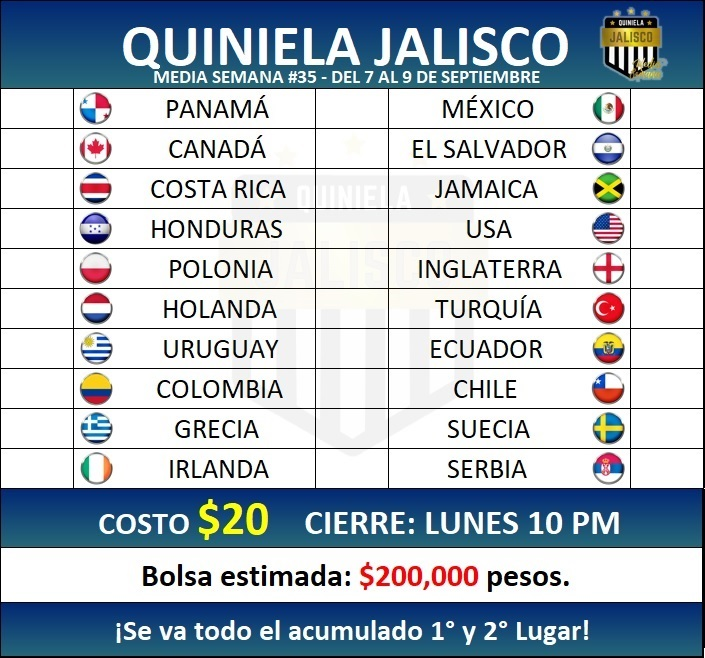
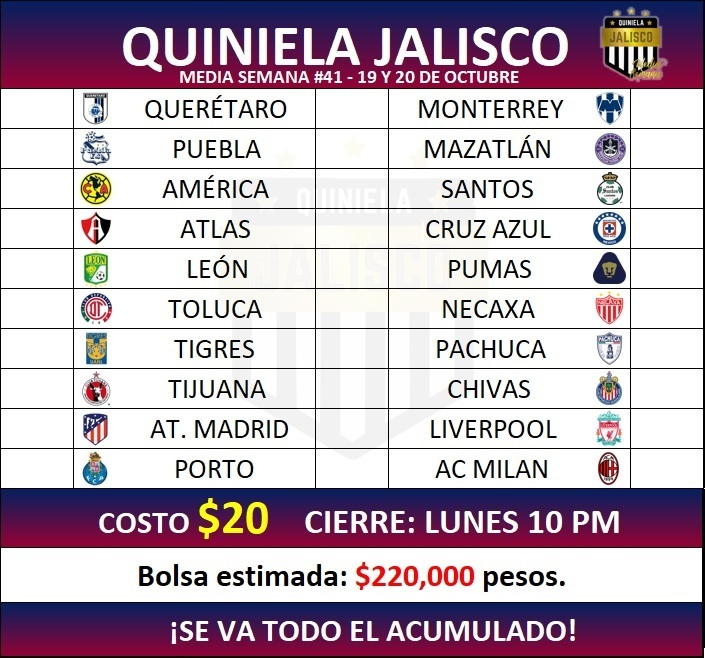
Media Semana #41

diff --git a/media.html b/media.html
@@ -2,22 +2,23 @@
 <html lang="en" translate="no">
 <head>
     <meta charset="UTF-8">
+    <meta name="google" content="notranslate">
     <meta name="viewport" content="width=device-width, initial-scale=1.0, user-scalable=no">
-    <title>Quiniela Jalisco - Media Semana</title>
+    <meta name="description" content="¡Registra aquí tus quinielas! - Quiniela Liga MX">
+    <meta name="keywords" content="Quiniela, Liga MX, Apostar, Pronósticos">
+    <title>Quiniela Jalisco</title>
     <link href="https://fonts.googleapis.com/css2?family=Roboto&display=swap" rel="stylesheet">
-    <link rel="stylesheet" href="MediaSemana/stylesm.css">
+    <link rel="stylesheet" href="10/styles10media.css">
     <link rel="icon" href="MediaSemana/iconm.jpg">
     <link rel="apple-touch-icon" href="MediaSemana/iconm.jpg">
     <link rel="shortcut icon" href="MediaSemana/iconm.jpg" type="image/x-icon">
     <script type="module" src="https://unpkg.com/ionicons@5.1.2/dist/ionicons/ionicons.esm.js"></script>
     <script nomodule="" src="https://unpkg.com/ionicons@5.1.2/dist/ionicons/ionicons.js"></script>
-    <script src="MediaSemana/mainm.js"></script>
+    <script src="10/main10media.js"></script>
 </head>
 
 <body>
-    <br>
-    <br>
-    <!--<p style='color:white;text-align:center'>Bolsa estimada: <span style="color:yellow">+$200,000 pesos</span></p>-->
+    <p id='bolsa'>¡Se reparte todo el acumulado!<br> Bolsa estimada: <span style="color:yellow">$220,000</span> pesos</p>
     <div class="quiniela" id="quiniela">
         <div class="aux"><h3 style="padding: 5px 7px" onclick="clean()"><ion-icon name="close-outline"></ion-icon></h3></div>
         <div class="partido">
@@ -83,6 +84,13 @@
             <div id="_"></div>
             <span id="V9" onclick="selection(this)"></span>
         </div>
+	<div class="partido">
+            <span id="L10" onclick="selection(this)"></span>
+            <div id="_"></div>
+            <span id="E10" onclick="selection(this)"></span>
+            <div id="_"></div>
+            <span id="V10" onclick="selection(this)"></span>
+        </div>
         <h1 id="text"></h1>
     </div>
     <table class="botonera">
@@ -118,7 +126,7 @@
                 <td style="width: 23%"></td>
             </tr>
         </table>
-        <script src="https://unpkg.com/ionicons@5.1.2/dist/ionicons.js"></script>
+        <!--<script src="https://unpkg.com/ionicons@5.1.2/dist/ionicons.js"></script>-->
 
         <br><br>
 
@@ -130,8 +138,8 @@
     </div>
     <br>
     <!--<p id="display"></p>-->
-    <div id="divaux">
-        <table id="display" translate="no">
+    <div id="divaux" translate="no">
+        <table id="display">
         </table>
     </div>
     <!--<button id="undo" onclick="remove()"><ion-icon name="arrow-undo-outline"></ion-icon></button>-->

diff --git a/10/styles10media.css b/10/styles10media.css
@@ -90,8 +90,8 @@ h1{
     margin-top: 8%;
     border: solid 1px black;
     border-radius: 0 0 14px 14px;
-    background: -webkit-linear-gradient(0turn, rgb(3,41,114)  ,rgb(43,100,117) 80%);
-    background: linear-gradient(0turn, rgb(3,41,114)  ,rgb(43,100,117) 80%);
+    background: -webkit-linear-gradient(0turn, rgb(14,28,89)  ,rgb(137,8,49) 80%);
+    background: linear-gradient(0turn, rgb(14,28,89)  ,rgb(137,8,49) 80%);
     font-size: x-large;
 }
 
